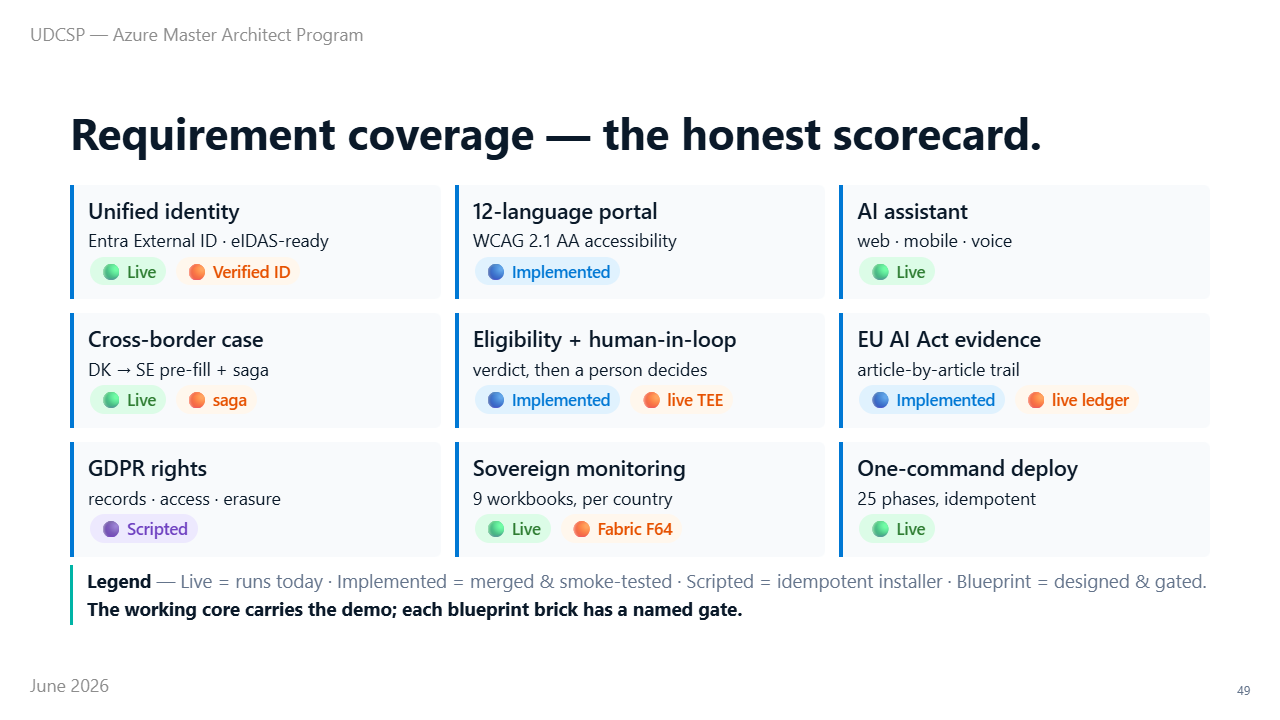
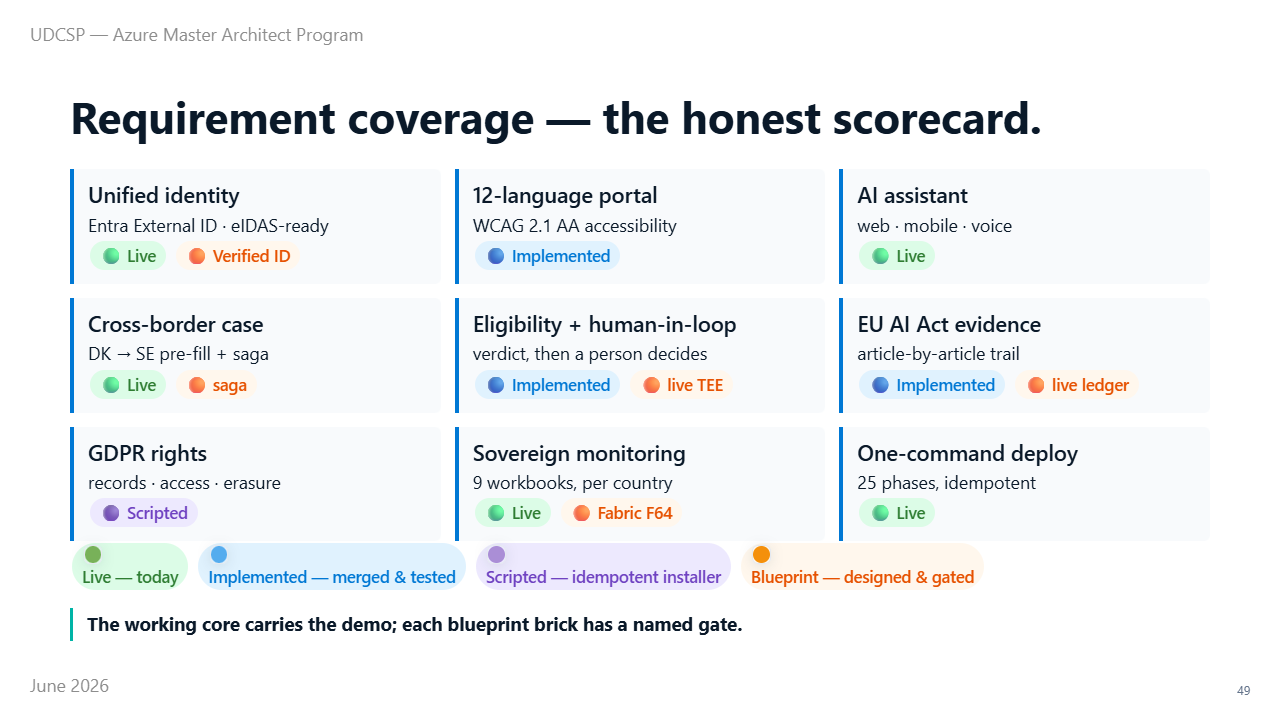
Restore colored status legend on coverage scorecard as pill row

diff --git a/presentation/slides.md b/presentation/slides.md
@@ -1216,7 +1216,9 @@ Nothing here is hand-waved; every label is backed by code or a script in the rep
 <div class="card"><h3>One-command deploy</h3><p>25 phases, idempotent</p><span class="pill green">🟢 Live</span></div>
 </div>
 
-> **Legend** — Live = runs today · Implemented = merged & smoke-tested · Scripted = idempotent installer · Blueprint = designed & gated. **The working core carries the demo; each blueprint brick has a named gate.**
+<span class="pill green">🟢 Live — today</span> <span class="pill">🔵 Implemented — merged & tested</span> <span class="pill purple">🟣 Scripted — idempotent installer</span> <span class="pill orange">🟠 Blueprint — designed & gated</span>
+
+> **The working core carries the demo; each blueprint brick has a named gate.**
 
 ---
 